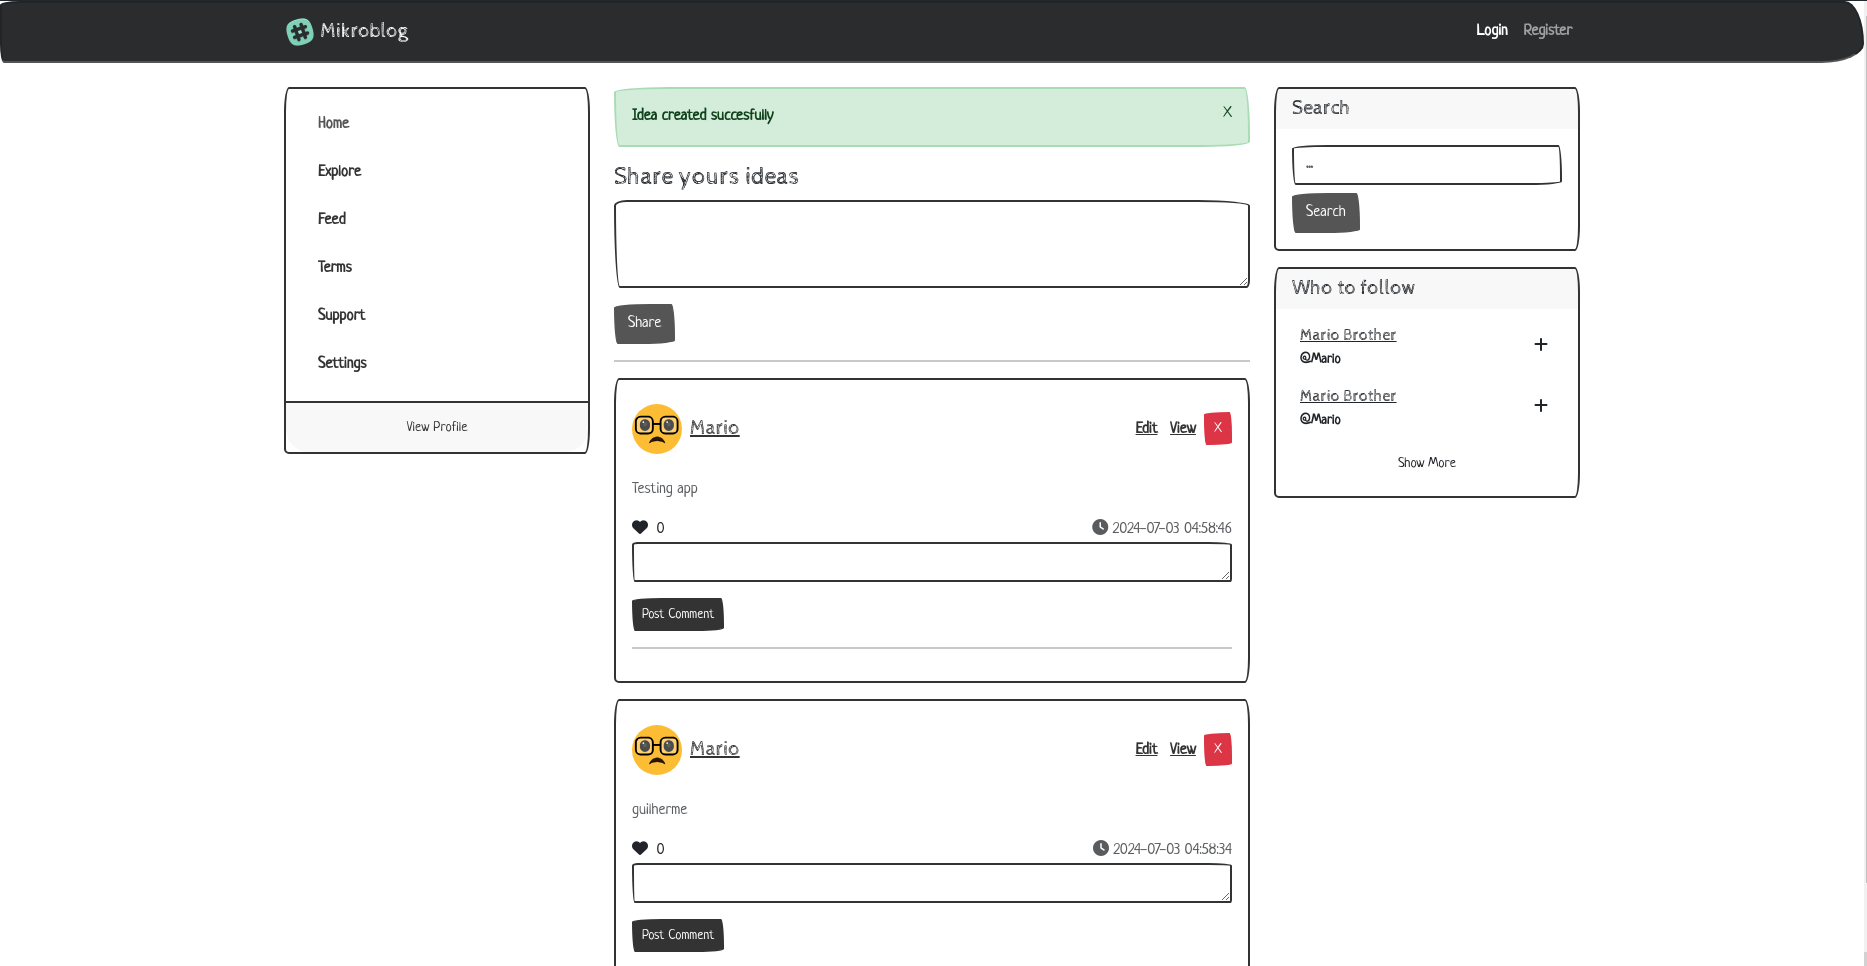
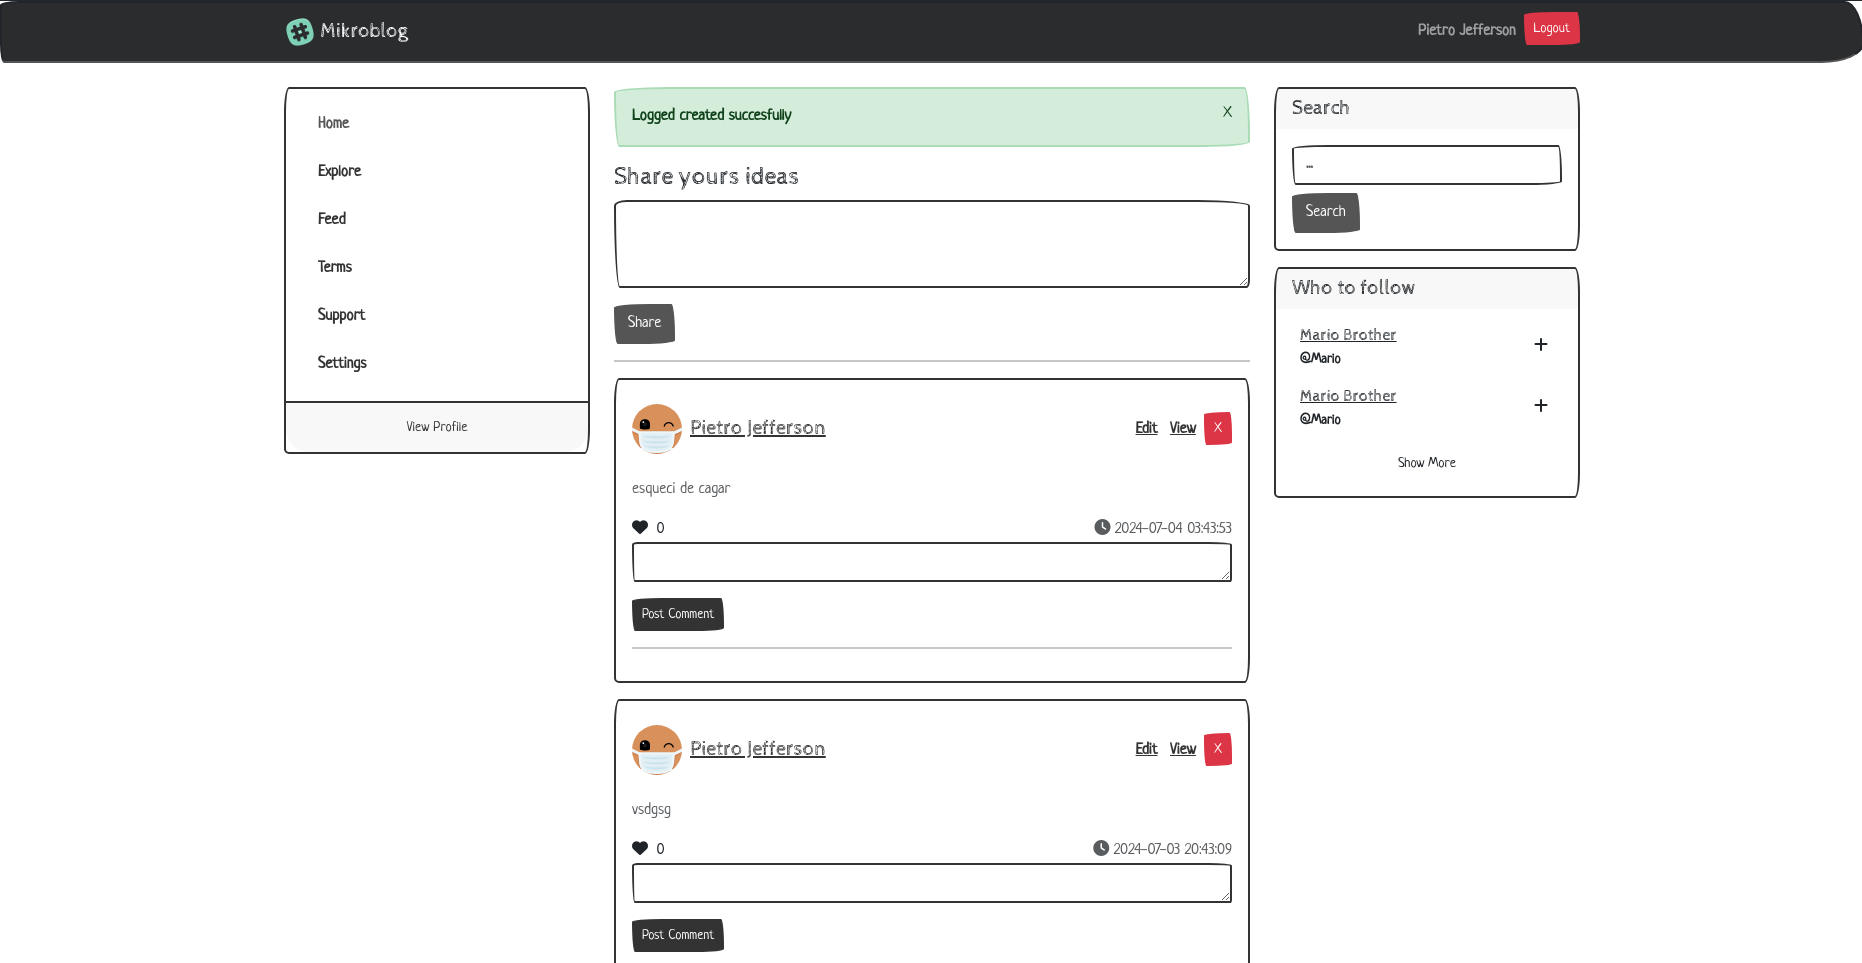
relationship between user, comment and idea

diff --git a/app/Http/Controllers/IdeaController.php b/app/Http/Controllers/IdeaController.php
@@ -15,25 +15,34 @@ class IdeaController extends Controller
 
     public function store(){
 
-        request()->validate([
+        $validated = request()->validate([
             'content' => 'required|min:5|max:250',
         ]);
 
-        $idea = Idea::create(
-            [
-                "content"=> request()->get('content', ''),
-            ]
-        );
+        $validated['user_id'] = auth()->id();
+
+        Idea::create($validated);
+        
 
         return redirect()->route('home')->with('success','Idea created succesfully');
     }
     
     public function edit(Idea $idea){
+        if(auth()->id() !== $idea->user_id){
+            abort(404);
+        }
+
+
         $editing = true;
         return view('ideas.show', compact('idea', 'editing'));
     }
 
     public function update(Idea $idea){
+        if(auth()->id() !== $idea->user_id){
+            abort(404);
+        }
+
+
         request()->validate([
             'content' => 'required|min:5|max:250',
 
@@ -46,6 +55,10 @@ class IdeaController extends Controller
     }
 
     public function destroy(Idea $idea){
+        if(auth()->id() !== $idea->user_id){
+            abort(404);
+        }
+
         $idea->delete();
        
 

diff --git a/resources/views/shared/submit-idea.blade.php b/resources/views/shared/submit-idea.blade.php
@@ -1,15 +1,20 @@
-<h4> Share yours ideas </h4>
-<div class="row">
-    <form action="{{ route('idea.store')}}" method="post">
-        @csrf
-        <div class="mb-3">
-            <textarea name="content" class="form-control" id="content" rows="3"></textarea>
-            @error('content')
-                <span class=" d-block fs-6 text-danger mt-2"> {{$message}}</span>
-            @enderror
-        </div>
-        <div class="">
-            <button type="submit" class="btn btn-dark"> Share </button>
-        </div>
-    </form>
-</div>
+@auth()
+    <h4> Share yours ideas </h4>
+    <div class="row">
+        <form action="{{ route('idea.store') }}" method="post">
+            @csrf
+            <div class="mb-3">
+                <textarea name="content" class="form-control" id="content" rows="3"></textarea>
+                @error('content')
+                    <span class=" d-block fs-6 text-danger mt-2"> {{ $message }}</span>
+                @enderror
+            </div>
+            <div class="">
+                <button type="submit" class="btn btn-dark"> Share </button>
+            </div>
+        </form>
+    </div>
+@endauth
+@guest()
+    <h4> Login To Share yours ideas </h4>
+@endguest

diff --git a/routes/web.php b/routes/web.php
@@ -10,10 +10,10 @@ Route::get('/', [DashboardController::class,'index'])->name('home');
 
 //Ideas Routes
 Route::get('/ideas/{idea}', [IdeaController::class,'show'])->name('idea.show');
-Route::post('/ideas', [IdeaController::class,'store'])->name('idea.store');
-Route::delete('/ideas/{idea}', [IdeaController::class,'destroy'])->name('idea.destroy');
-Route::get('/ideas/{idea}/edit', [IdeaController::class,'edit'])->name("idea.edit");
-Route::put("/ideas/{idea}", [IdeaController::class,"update"])->name('idea.update');
+Route::post('/ideas', [IdeaController::class,'store'])->name('idea.store')->middleware('auth');
+Route::delete('/ideas/{idea}', [IdeaController::class,'destroy'])->name('idea.destroy')->middleware('auth');
+Route::get('/ideas/{idea}/edit', [IdeaController::class,'edit'])->name("idea.edit")->middleware('auth');
+Route::put("/ideas/{idea}", [IdeaController::class,"update"])->name('idea.update')->middleware('auth');
 
 // Comments Routes
 

diff --git a/resources/views/shared/idea-card.blade.php b/resources/views/shared/idea-card.blade.php
@@ -3,9 +3,9 @@
         <div class="d-flex align-items-center justify-content-between">
             <div class="d-flex align-items-center">
                 <img style="width:50px" class="me-2 avatar-sm rounded-circle"
-                    src="https://api.dicebear.com/6.x/fun-emoji/svg?seed=Mario" alt="Mario Avatar">
+                    src="https://api.dicebear.com/6.x/fun-emoji/svg?seed={{$idea->user->name}}" alt="{{$idea->user->name}}">
                 <div>
-                    <h5 class="card-title mb-0"><a href="#"> Mario
+                    <h5 class="card-title mb-0"><a href="#"> {{$idea->user->name}}
                         </a></h5>
                 </div>
             </div>

diff --git a/app/Http/Controllers/CommentController.php b/app/Http/Controllers/CommentController.php
@@ -10,15 +10,11 @@ class CommentController extends Controller
 {
     public function store(Idea $idea){
 
-      
-
         $comment = new Comment();
         $comment->idea_id = $idea->id;
+        $comment->user_id = auth()->id();
         $comment->content = request()->get('content');
         $comment->save();
-
-
-
 
         return redirect()->route('idea.show', $idea->id)->with('success','Comment posted succesfully');
         

diff --git a/database/migrations/2024_06_29_221143_create_comments_table.php b/database/migrations/2024_06_29_221143_create_comments_table.php
@@ -13,6 +13,7 @@ return new class extends Migration
     {
         Schema::create('comments', function (Blueprint $table) {
             $table->id();
+            $table->foreignId('user_id')->constrained()->cascadeOnDelete();
             $table->foreignId('idea_id')->constrained()->cascadeOnDelete();
             $table->string('content');
             $table->timestamps();

diff --git a/database/migrations/2024_06_20_172810_create_ideas_table.php b/database/migrations/2024_06_20_172810_create_ideas_table.php
@@ -13,6 +13,7 @@ return new class extends Migration
     {
         Schema::create('ideas', function (Blueprint $table) {
             $table->id();
+            $table->foreignId('user_id')->constrained()->cascadeOnDelete();
             $table->string('content');
             $table->unsignedInteger('likes')->default(0);
             $table->timestamps();

diff --git a/app/Models/Idea.php b/app/Models/Idea.php
@@ -10,6 +10,7 @@ class Idea extends Model
     use HasFactory;
 
     protected $fillable = [
+        'user_id',
         "content",
         "like",
     ];
@@ -18,4 +19,8 @@ class Idea extends Model
         return $this->hasMany(Comment::class);
     }
 
+    public function user(){
+        return $this->belongsTo(User::class);
+    }
+    
 }

diff --git a/app/Models/Comment.php b/app/Models/Comment.php
@@ -9,4 +9,12 @@ class Comment extends Model
 {
     use HasFactory;
     
+    protected $fillable = [
+        'user_id',
+        'content'
+    ];
+
+    public function user(){
+        return $this->belongsTo(User::class);
+    }
 }

diff --git a/app/Models/User.php b/app/Models/User.php
@@ -45,4 +45,9 @@ class User extends Authenticatable
             'password' => 'hashed',
         ];
     }
+
+    public function ideas(){
+        return $this->hasMany(Idea::class);
+    }
+    
 }
